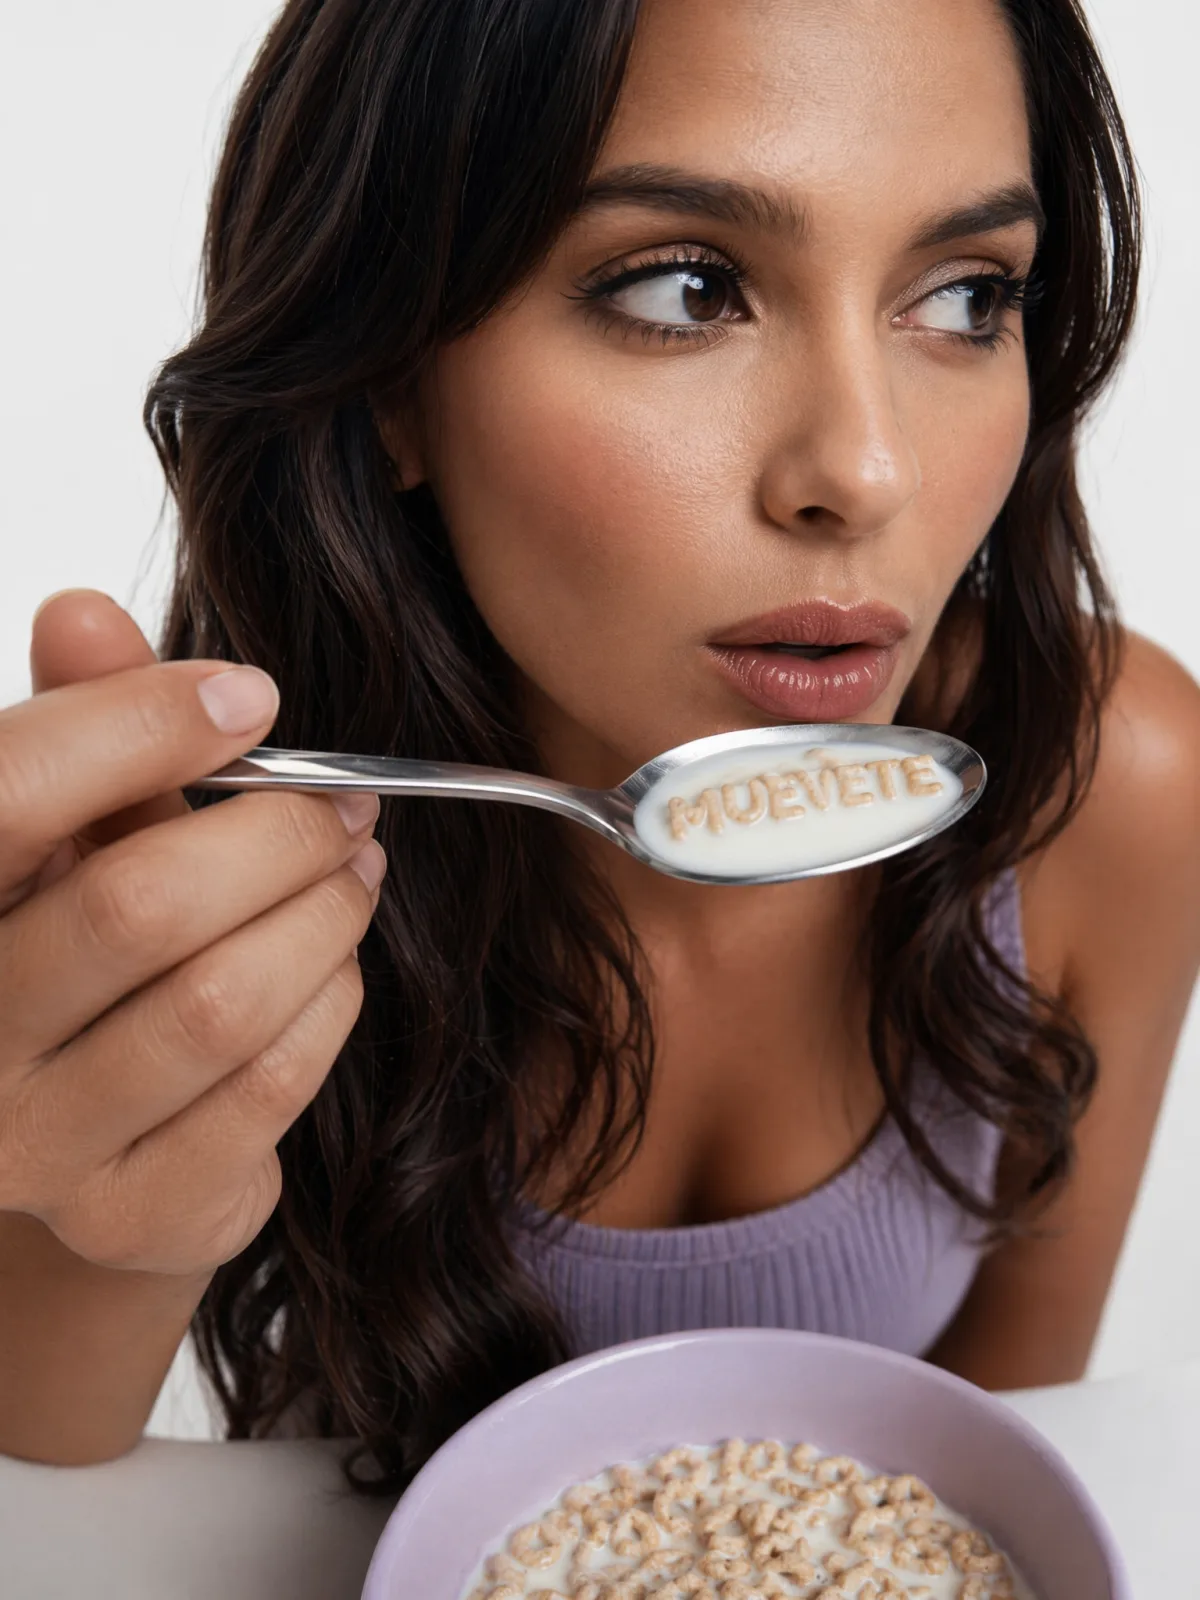
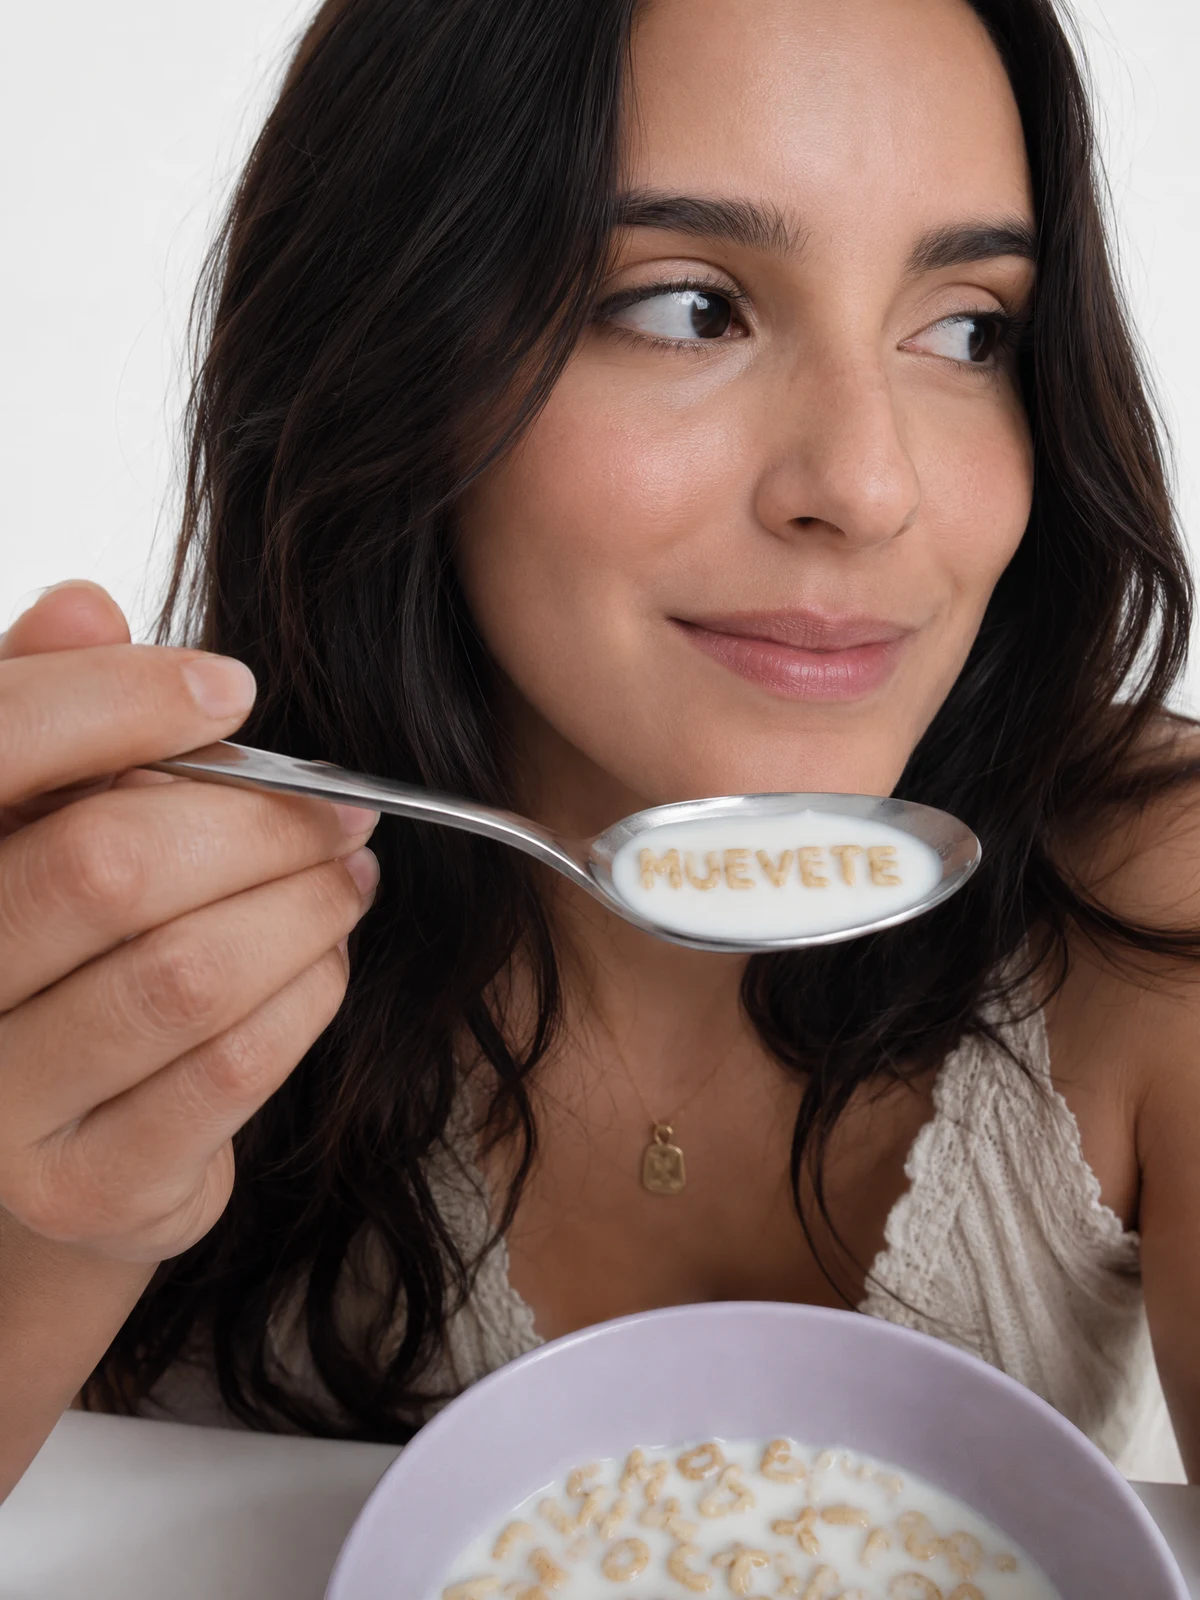
style: distinct per-profile colors + new muévete cereal photo
Colors — no profile reads as the generic terracotta anymore; each owns a
distinct hue (orange / blue / green / gold):
- Montaña Rusa: --coral (terracotta) → --naranja-vivo (bright orange)
- del Lunes:    --blue → --blue-dark (readable dusty blue)
- Estancada:    --verde-dark → verde 90% (brighter chartreuse-green)
- que Vuelve:   --naranja-calido (read as terracotta) → amarillo+naranja gold

Photo — replace muevete-cereal.webp with the new MUÉVETE-spelled-in-cereal
portrait (both the /sistema hero and GrowthSection pick it up by path).

diff --git a/site/src/lib/quizData.ts b/site/src/lib/quizData.ts
@@ -385,8 +385,8 @@ export const profiles: Record<ProfileId, Profile> = {
     emoji: "🎢",
     tagline: "Empiezas, ves resultados, lo dejas. Y otra vez.",
     hook: "No es que falles. Es que siempre vuelves a empezar.",
-    color: "var(--coral)",
-    accent: "var(--coral-light)",
+    color: "var(--naranja-vivo)",
+    accent: "color-mix(in srgb, var(--naranja-vivo) 30%, white)",
     description: `Lo conoces de memoria. Arrancas con todo, las primeras semanas se sienten increíbles, ves cambios. Y justo cuando agarras ritmo, la vida aprieta — trabajo, viaje, cansancio — o simplemente te aburres.
 
 Lo dejas. «Es solo esta semana». Pero una semana se vuelve un mes, y cuando quieres volver, ya perdiste casi todo lo que ganaste.
@@ -425,7 +425,7 @@ El problema es que cada plan que probaste era rígido — al primer tropiezo te 
     emoji: "📅",
     tagline: "Siempre «la próxima semana». Y cuando buscas cómo, te ahogas.",
     hook: "Lo estás posponiendo tanto que ya duele.",
-    color: "var(--blue)",
+    color: "var(--blue-dark)",
     accent: "var(--blue-light)",
     description: `Sabes que tienes que hacer algo. Lo sabes hace tiempo. Pero nunca es el momento — la semana que viene, cuando baje el trabajo, cuando esté más tranquila.
 
@@ -465,7 +465,7 @@ No necesitas más información. Necesitas menos: una sola voz, un solo plan, un 
     emoji: "📈",
     tagline: "Entrenas. Lo haces bien. Pero la aguja dejó de moverse.",
     hook: "Trabajas duro. ¿Por qué no avanzas?",
-    color: "var(--verde-dark)",
+    color: "color-mix(in srgb, var(--verde) 90%, var(--chocolatito))",
     accent: "var(--verde-light)",
     description: `Tú sí apareces. Entrenas, cumples, sudas. No eres de las que abandonan — llevas tiempo siendo constante y estás orgullosa de eso.
 
@@ -505,8 +505,8 @@ Necesitas a alguien que mida, ajuste y te exija con criterio — que vea lo que 
     emoji: "🌅",
     tagline: "Antes entrenabas. Un bebé, una lesión, la vida — y te saliste.",
     hook: "Tu cuerpo cambió. Tú sigues siendo tú.",
-    color: "var(--naranja-calido)",
-    accent: "color-mix(in srgb, var(--naranja-calido) 30%, white)",
+    color: "color-mix(in srgb, var(--amarillito) 42%, var(--naranja-calido))",
+    accent: "color-mix(in srgb, var(--amarillito) 55%, white)",
     description: `Hubo una época en que esto era tuyo. Entrenabas, sabías lo que hacías, te sentías fuerte. Y entonces llegó algo más grande — un embarazo, una lesión, un año imposible — y te saliste.
 
 Ahora te miras al espejo y no siempre te reconoces. Una parte de ti extraña a la que eras. Otra tiene miedo de que sea tarde, de que el cuerpo ya no responda. Y otra, impaciente, odia estar en la casilla de salida sabiendo dónde estabas.
